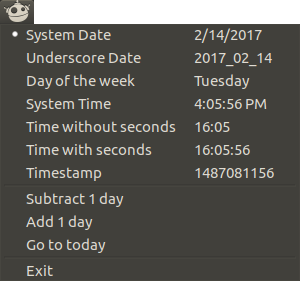
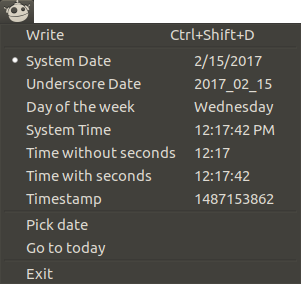
added picture of datepicker

diff --git a/README.md b/README.md
@@ -16,3 +16,7 @@ OSX has a theme engine that uses the template icon to keep the theme consistent 
 Ubuntu
 
 ![Ubuntu Screenshot](https://github.com/SN9NV/date-robot/blob/master/Ubuntu-screenshot.png "Ubuntu Screenshot")
+
+Date picker
+
+![Date picker](https://github.com/SN9NV/date-robot/blob/master/date-picker.png.png "Date picker")
